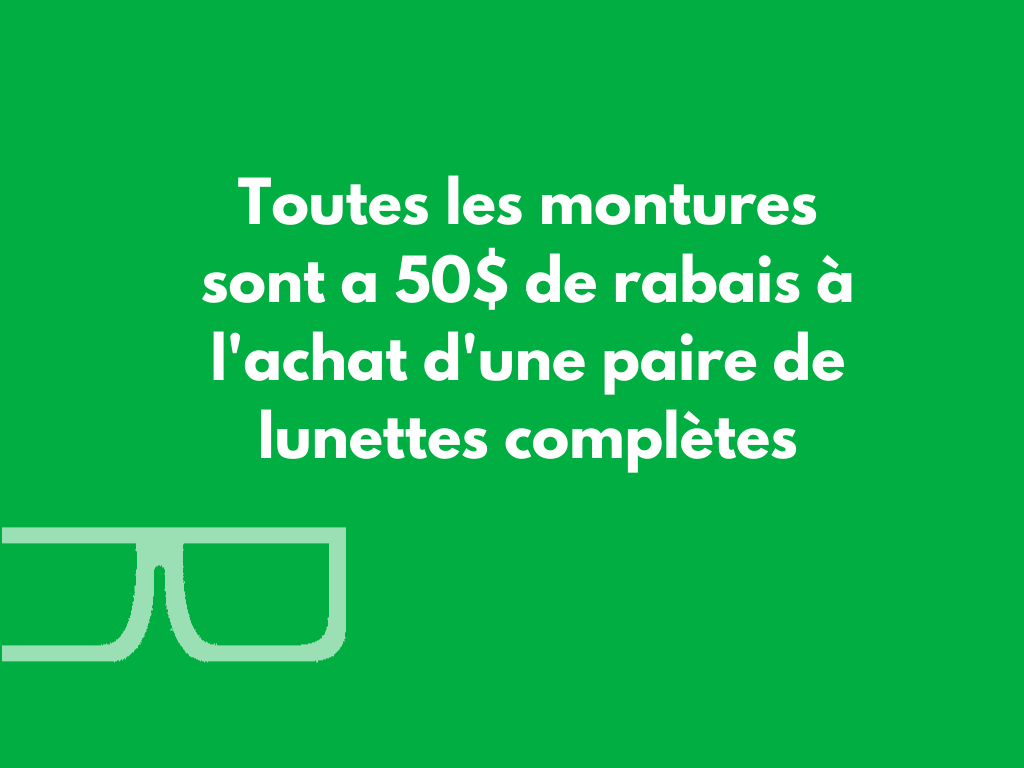
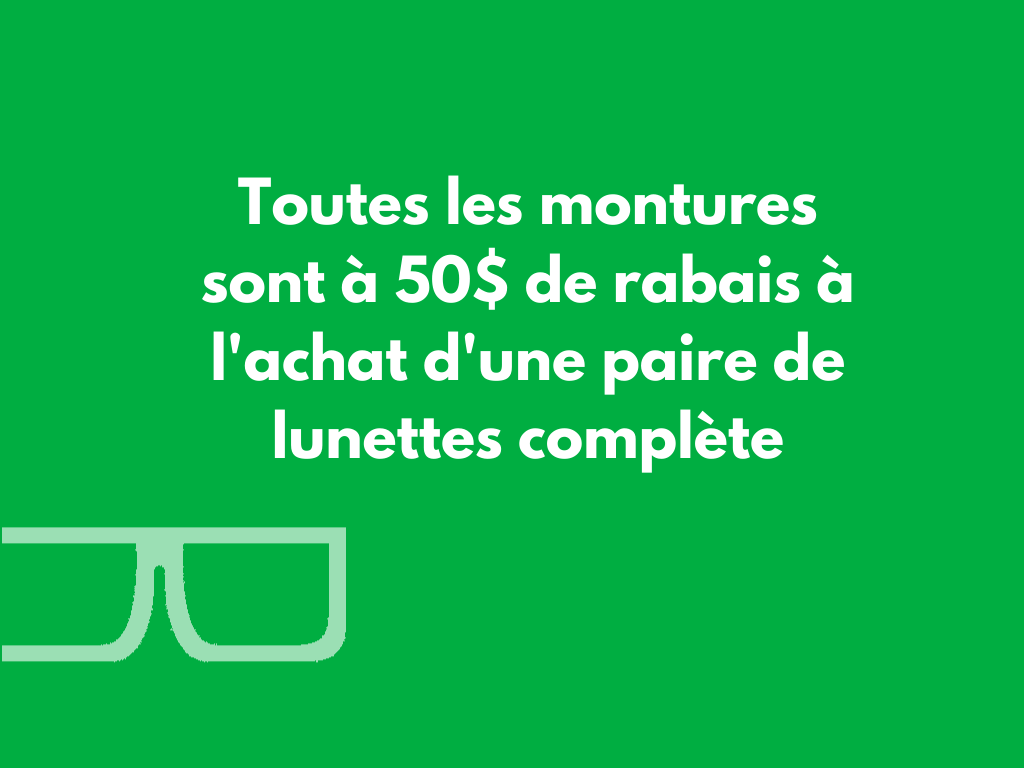
text & image updates;

Changed region(s): [[0.25, 0.5312, 0.7812, 0.625]]

diff --git a/content/_index.md b/content/_index.md
@@ -43,7 +43,9 @@ header:
   sliderurl: /promotions/
 slidertext: >-
   <span>Promotion de réouverture:</span>
-  <span>toutes les montures sont à 50$ de rabais à l'achat d'une paire de lunettes complètes.</span>
+  <span>toutes les montures sont à</span>
+  50$ de rabais
+  <span style="line-height: 35px">à l'achat d'une paire de lunettes complète.</span>
 block2:
   titre: Vos professionels de la vue au coeur de Laval
   text: >-

diff --git a/content/promotions/march.md b/content/promotions/march.md
@@ -13,4 +13,4 @@ annuel: true
 weight: 0
 ---
 
-Promotion de réouverture: toutes les montures sont à 50$ de rabais à l'achat d'une paire de lunettes complètes. À l'exception des forfaits, monture et verres ophtalmiques.
+Promotion de réouverture: toutes les montures sont à 50$ de rabais à l'achat d'une paire de lunettes complète. À l'exception des forfaits, monture et verres ophtalmiques.

diff --git a/content/_index.en.md b/content/_index.en.md
@@ -42,7 +42,8 @@ header:
   dark: true
   sliderurl: /en/promotions/
 slidertext: "<span>Re-opening promotion:</span>
-  <span>all frames are 50$ off at the purchase of a complete pair of glasses.</span>"
+  50$ off all frames
+  <span>at the purchase of a complete pair of glasses.</span>"
 block2:
   titre: Optometrist, Optician And Eyewear in Laval
   text: >-
